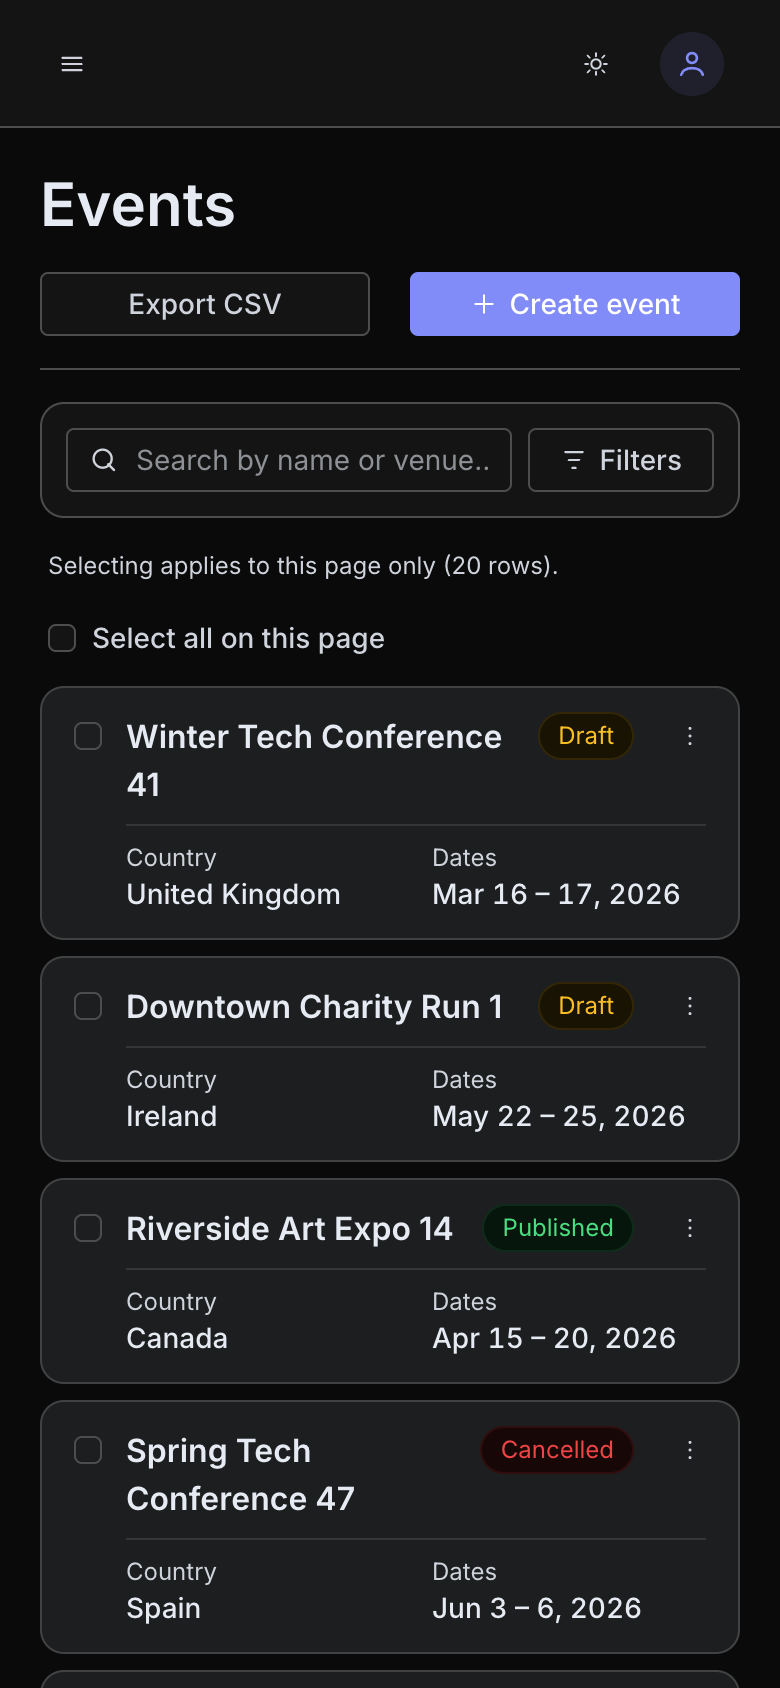
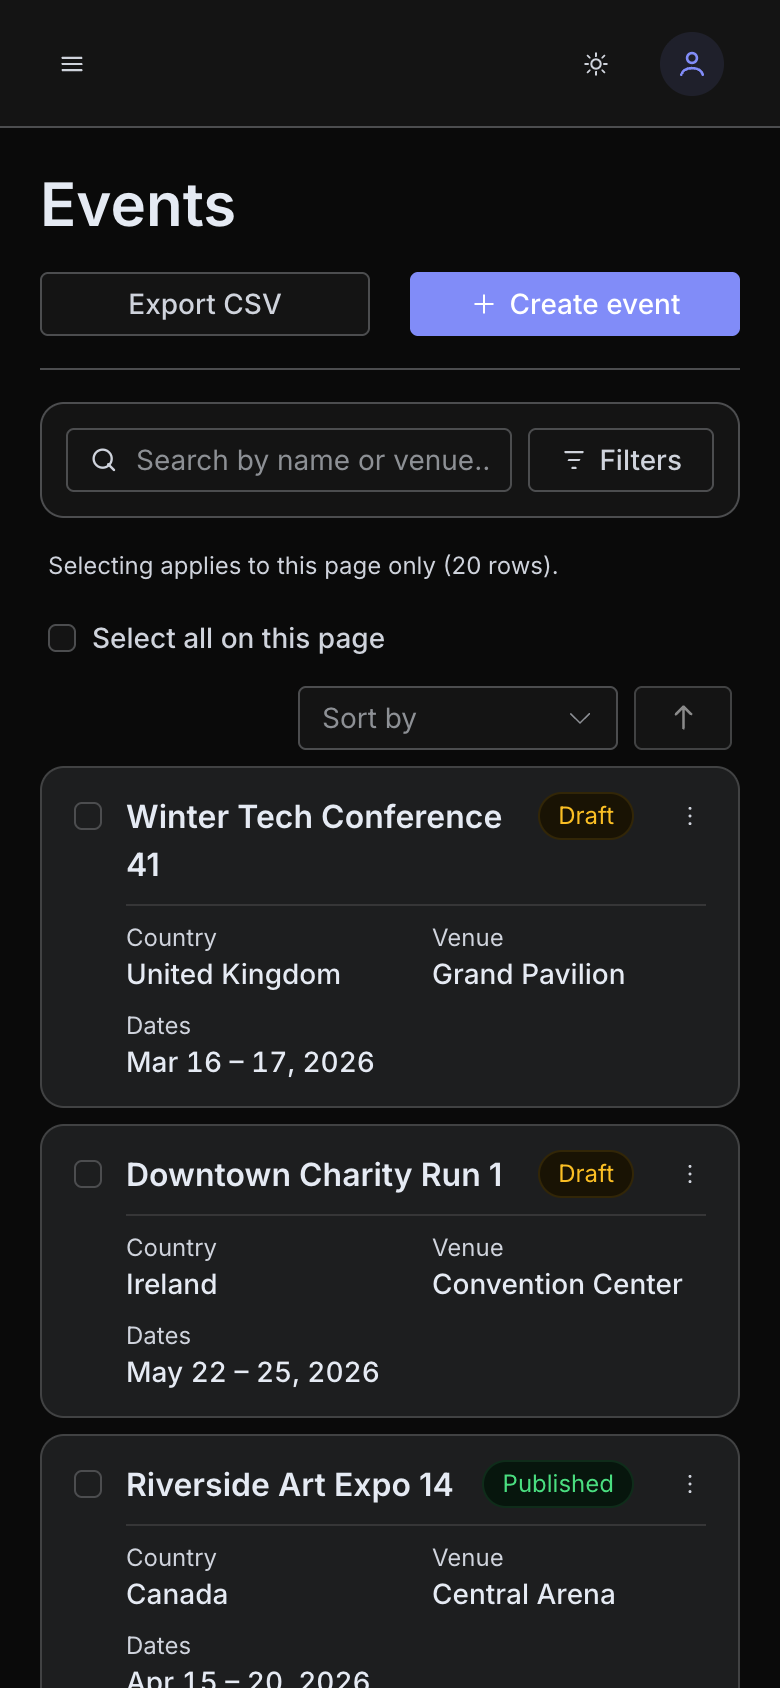
docs: record the fixes and the compact list layout
The technical review lists the three defects found in the browser
walkthrough with their lessons, drops them from the two-more-days list,
and describes cards, sorting and filters below 1024px. README gains an
Overview heading, the npm 10 requirement and a tablet screenshot;
screenshots are retaken from the Docker image.

diff --git a/TECHNICAL_REVIEW.md b/TECHNICAL_REVIEW.md
@@ -118,11 +118,16 @@ stores, because nothing else reads them.
 ### One configurable table instead of three
 
 [`AppDataTable`](src/components/data-table/AppDataTable.vue) is driven by column descriptors:
-key, label, sortable, alignment, responsive priority and cell slot. It emits intent (sort,
+key, label, sortable, alignment, card role and cell slot. It emits intent (sort,
 select, row action) and holds no fetching logic. Every list therefore shares one
-implementation of sorting, selection, skeleton, empty, error and retry states. Below tablet
-width the same descriptors render as `el-card` rows that show only high-priority columns,
-so the mobile layout is switched in one place instead of being a media query on each table.
+implementation of sorting, selection, skeleton, empty, error and retry states. Below 1024 px
+the same descriptors render as `el-card` rows. That covers tablets too: seven columns squeezed
+into 820 px broke words mid-way. A card shows every column: the first, or the one with
+`cardRole: 'title'`, is the heading, `cardRole: 'badge'` sits beside it, and the rest are
+label/value fields. Cards have no headers to click, so the same `sortable` flags feed a sort
+select and a direction toggle, and `ListToolbar` moves the filters into a drawer at the same
+threshold. The layout is therefore switched in one place instead of being a media query on
+each table.
 
 - **Rejected:** a table per entity. Each one would be defensible on its own, and together
   they would be incoherent.
@@ -187,35 +192,26 @@ The list is ranked. Correctness comes before structure, structure before feature
 cheap fix that prevents a whole class of bug comes before an expensive one that prevents a
 single bug.
 
-1. **Fix the two defects this review found, and the tests that missed them** (half a day).
-   - **Events CSV export returns an empty file unless a country filter is set.**
-     `Events.vue` sends `country: ''` because `?? undefined` does not replace an empty
-     string. The mock then matches nothing. `csv-export.spec.ts` checks the file name and
-     MIME type but not the rows, so the test passes.
-   - **Dates show one day early for anyone west of UTC.** `formatDate` parses `2026-09-27`
-     as UTC midnight, which is the evening of the 26th in New York.
-
-   Both are small fixes. The lesson is to assert on the content, not the envelope.
-2. **Build and smoke-test the Docker image in CI** (half a day). The production image did
+1. **Build and smoke-test the Docker image in CI** (half a day). The production image did
    not build for five days, and when it did, the bundle shipped without its mock API. The
    first problem only surfaced when I ran `docker compose up` by hand. CI builds with Vite
    but never builds the image or opens it in a browser. The fix is `docker build` plus one
    Playwright journey against the running container: sign in, open each list, create a
    ticket. It costs little and guards the path every reviewer takes first.
-3. **Extract the list-page and form composables** (one day). About 120–150 lines of each
+2. **Extract the list-page and form composables** (one day). About 120–150 lines of each
    list page are the same wiring: bulk delete and archive, single delete with page
    step-back, CSV export, row actions filtered by capability, and selection. The three forms
    also re-implement dirty tracking, server field errors, loading with a stale-id guard, and
    submit. A fourth entity would copy all of it again. See
    [section 4](#4-what-i-would-refactor-first).
-4. **Optimistic concurrency on updates.** Today two administrators who edit the same ticket
+3. **Optimistic concurrency on updates.** Today two administrators who edit the same ticket
    get last-write-wins with no warning. The brief names concurrent administrators, and the
    fix touches the contract, the mock and the form. It ranks below the refactor because it
    is much easier to add once, in a shared form composable, than three times. See
    [section 5.5](#55-concurrent-administrators).
-5. **Lint rules for the layering.** This stops the architecture from eroding as the team
+4. **Lint rules for the layering.** This stops the architecture from eroding as the team
    grows. It ranks here because nothing violates the rules today.
-6. **A query cache.** See [section 5.3](#53-caching-and-invalidation). It becomes worth doing
+5. **A query cache.** See [section 5.3](#53-caching-and-invalidation). It becomes worth doing
    only once real latency and multiple administrators exist.
 
 ---
@@ -281,9 +277,11 @@ production, and what would change my answer.
 - **What:** event dates are `YYYY-MM-DD` strings and are compared as strings.
 - **Why it is fine here:** an event occupies whole days, so a time component would raise
   timezone questions the domain does not need.
-- **Production cost:** the display bug in
-  [section 2](#2-what-i-would-improve-with-two-more-days). The dashboard's "today" is also
-  UTC, so "currently running" can be wrong for a few hours around midnight.
+- **Production cost:** a date-only string is easy to misread as a timestamp. Parsing
+  `2026-09-27` with `new Date()` gives UTC midnight, which is the 26th anywhere west of UTC.
+  This review caught exactly that in `formatDate`; it is fixed, with a test pinned to
+  `America/New_York`. The mock server's "today" is still UTC, so "currently running" and
+  "next events" can be off for a few hours around midnight.
 - **What changes the answer:** start times, doors-open times, or venues in several
   timezones. Dates would then be stored as UTC instants alongside the venue's IANA
   timezone, and shown in the venue's local time.
@@ -335,6 +333,26 @@ production, and what would change my answer.
 
 I identified these from the code as it exists now, not from the plan.
 
+Reading the code this critically, and walking through every flow in a browser against the
+Docker image, turned up three defects. All three are now fixed, each with a test that fails
+without the fix:
+
+- **A price with cents could not be saved.** `CurrencyInput` wraps `el-input-number`, which
+  renders `<input type="number">` with the default `step="1"`. The form submits natively,
+  so the browser rejected `45.50` as invalid before Element Plus validation even ran. jsdom
+  does not run native constraint validation on submit, so no test saw it. The step now
+  follows the currency's precision.
+- **The events CSV export was empty unless a country filter was set.** `Events.vue` sent
+  `country=` because `?? undefined` does not replace an empty string, and an empty filter
+  matches nothing. The export test checked the file name and MIME type but not the rows, so
+  it passed.
+- **Event dates showed one day early west of UTC.** See
+  [the dates item in section 3](#dates-are-whole-days-and-timezone-naive).
+
+The common lessons: assert on the content, not the envelope; run date tests in more than the
+author's own timezone; and exercise the real browser at least once per form, because jsdom
+skips what the browser enforces.
+
 1. **Extract `useEntityListPage` from the three list views.** `Tickets.vue` has 501 lines,
    `Events.vue` 378 and `Categories.vue` 241. The following blocks are near-verbatim copies:
    - `dataTableSort`, `rowKey` and the capability-filtered `rowActions`;
@@ -348,7 +366,7 @@ I identified these from the code as it exists now, not from the plan.
 
    The dependency-conflict toast appears three times. The CSV handler also rebuilds the
    filter-to-request mapping that the list composable already computes, which is how the
-   empty-export bug got in. After the refactor, each view declares its columns, filters and
+   empty-export bug above got in. After the refactor, each view declares its columns, filters and
    service, and nothing else.
 2. **Extract `useEntityForm` from `EventForm`, `TicketForm` and `CategoryModal`.** The shared
    logic is:
@@ -541,7 +559,10 @@ For a team, I would add the following, in this order:
    was never committed in the shape that passed. CI should run `eslint . --max-warnings 0`
    without `--fix`.
 2. **Build the Docker image in CI and run a smoke test against it**, as described in
-   [section 2](#2-what-i-would-improve-with-two-more-days).
+   [section 2](#2-what-i-would-improve-with-two-more-days). CI should also run the suite
+   under a second timezone west of UTC (`TZ=America/New_York`). That is one extra job, and
+   it would have caught the date bug in [section 4](#4-what-i-would-refactor-first) on the
+   day it was written.
 3. **Enforce the layering mechanically.** Auto-imports hide dependencies from
    `no-restricted-imports`. There are two options:
    - Turn off auto-imports for stores and services, so dependencies are visible again.

diff --git a/README.md b/README.md
@@ -1,5 +1,7 @@
 # Ticket Management Admin Portal
 
+## Overview
+
 An administration portal for managing **Events**, **Ticket Categories** and **Tickets**,
 built with Vue 3, TypeScript, Pinia and Element Plus against a fully mocked,
 contract-typed backend.
@@ -19,16 +21,18 @@ Administrators sign in and then:
 - **Roles.** An administrator can read and write; a viewer is read-only. Permissions are
   enforced by the mock server, the router and the UI.
 - **Dark mode and responsive layout.** Everything works on desktop, tablet and mobile, in
-  both themes.
+  both themes. Below 1024 px lists become cards showing every column, filters move into a
+  drawer, and a sort control replaces the column headers, so a tablet never gets a squeezed
+  table.
 
 | Dashboard | Events list | Event form |
 |---|---|---|
 | ![Dashboard, desktop, light](docs/screenshots/dashboard-desktop-light.png) | ![Events list, desktop, light](docs/screenshots/events-list-desktop-light.png) | ![Event form, desktop, light](docs/screenshots/event-form-desktop-light.png) |
 | ![Dashboard, desktop, dark](docs/screenshots/dashboard-desktop-dark.png) | ![Events list, desktop, dark](docs/screenshots/events-list-desktop-dark.png) | ![Event form, desktop, dark](docs/screenshots/event-form-desktop-dark.png) |
 
-| Mobile | | | Forced API failure |
+| Mobile | | Tablet | Forced API failure |
 |---|---|---|---|
-| ![Dashboard, mobile, light](docs/screenshots/dashboard-mobile-light.png) | ![Events list, mobile, light](docs/screenshots/events-list-mobile-light.png) | ![Tickets list, mobile, dark](docs/screenshots/tickets-list-mobile-dark.png) | ![Events list with a forced 500](docs/screenshots/events-list-desktop-light-error.png) |
+| ![Dashboard, mobile, light](docs/screenshots/dashboard-mobile-light.png) | ![Tickets list, mobile, dark](docs/screenshots/tickets-list-mobile-dark.png) | ![Tickets list, tablet, light](docs/screenshots/tickets-list-tablet-light.png) | ![Events list with a forced 500](docs/screenshots/events-list-desktop-light-error.png) |
 
 More in [`docs/screenshots/`](docs/screenshots/).
 
@@ -52,7 +56,8 @@ below.
 
 ## Local installation
 
-Requires **Node.js `^20.19.0 || >=22.12.0`**. The pinned version is in [`.nvmrc`](.nvmrc).
+Requires **Node.js `^20.19.0 || >=22.12.0`** and **npm 10 or newer**. The pinned version is in
+[`.nvmrc`](.nvmrc). `.npmrc` enforces the engines field, so an older npm refuses to install.
 
 ```sh
 nvm use
@@ -234,7 +239,8 @@ component  →  composable  →  store  →  service  →  apiClient
   `useListResource` fetches, cancels superseded requests and recovers from errors, and
   each page composes them.
 - **Components** render and emit intent. `AppDataTable` is one descriptor-driven table
-  used by all three lists. Below tablet width it switches to cards.
+  used by all three lists. Below 1024 px (phones and tablets) it switches to cards, with a
+  sort control built from the sortable columns.
 
 **Views** are route-bound pages. **Features** are reusable, route-agnostic modules and
 never import from each other.

diff --git a/docs/AI_WORKFLOW.md b/docs/AI_WORKFLOW.md
@@ -15,7 +15,7 @@ how that was caught.
 | Specifications | 10 PRDs → 41 vertical-slice issues ([#1–#51](https://github.com/bydlovskyi/platinum/issues)) |
 | Pull requests | 38, one per slice, stacked; every merge done by me |
 | Commits | 124 (83 excluding merges) |
-| Tests | 830 across 73 files, all passing |
+| Tests | 842 across 73 files, all passing |
 
 ## The trail
 
@@ -200,9 +200,15 @@ On 27 September I went through the output myself:
 - **`493acc2`** debounced list requests and stopped a component remounting on every query
   change.
 - **Review for the technical review.** While preparing `TECHNICAL_REVIEW.md` I had review
-  agents read the code critically. They found an empty events CSV export and a date shown a
-  day early west of UTC. Both are listed there as the first things to fix, with the tests
-  that missed them.
+  agents read the code critically. I also walked every flow in a real browser against the
+  Docker image. That turned up three defects that had all slipped past green tests:
+  - A price with cents could not be saved. The browser's native number-step validation
+    blocked the submit, and jsdom never runs it.
+  - The events CSV export was empty. The test checked the file name instead of the rows.
+  - Dates showed a day early west of UTC. The tests only ever ran in my own timezone.
+
+  I fixed all three. Before each fix, I made sure the new test failed on the old code. The
+  same walkthrough showed a squeezed seven-column table on tablets, which now render cards.
 
 ## Commit authorship
 

diff --git a/docs/prd/ELEMENT-PLUS.md b/docs/prd/ELEMENT-PLUS.md
@@ -94,7 +94,7 @@ spec.
 | Refetch with rows on screen | `v-loading` on `el-table` | keeps rows visible instead of blanking |
 | Empty states | `el-empty` (`#image` for the token illustration, default slot for the `el-button` action) rendered in place of the table / cards | three variants: no-data, no-matches, load-failed; rendered outside `el-table` so the mobile card presentation shares them |
 | Load failed | `el-result` (or `el-empty` variant) + `el-button` retry | |
-| Mobile card presentation | `el-card shadow="never"` per row, `el-checkbox`, `el-dropdown` | same descriptors, high-priority columns only |
+| Mobile card presentation | `el-card shadow="never"` per row, `el-checkbox`, `el-dropdown` | same descriptors, every column (title, badge, label/value fields) |
 | Pagination | `el-pagination` `layout="total, sizes, prev, pager, next"`, `background`; `small` and a lower `pager-count` below tablet | renders the `PaginationMeta` envelope directly |
 | Toolbar search | `el-input clearable` with a search `#prefix` | debounced in the composable, not in the input |
 | Toolbar filters | `el-select` (`clearable`, `filterable`), `el-date-picker type="daterange"` | |
